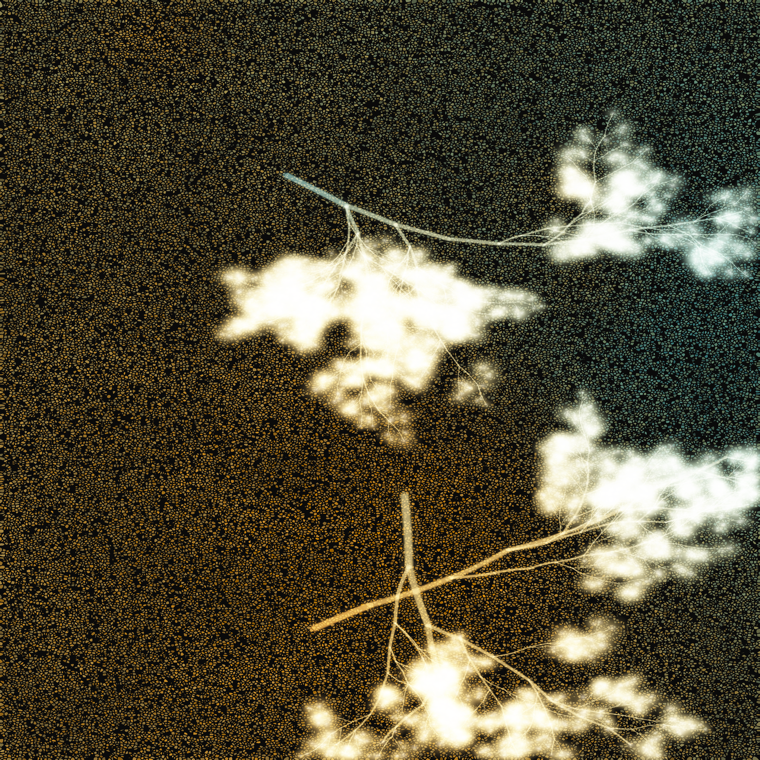
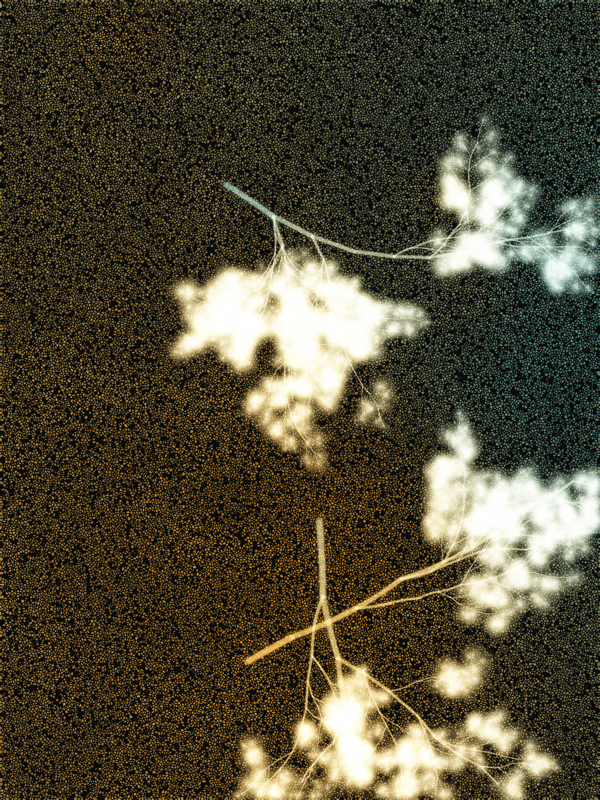
feat: support native aspect ratios for collection images
Add optional aspectRatio field to Collection interface. Onchain Lobsters
(10/13) and What Algorithms Want (3/4) now render at their native portrait
ratios instead of being forced into 1:1 squares. Updated everywhere
collection images appear: CollectionCard, collection detail hero,
CollectionItems grid, and profile page holdings.

Also re-downloaded What Algorithms Want hero at original 3:4 dimensions.

Changed region(s): [[0.03, 0.9987, 0.06, 1.0]]

diff --git a/components/CollectionItems.tsx b/components/CollectionItems.tsx
@@ -47,9 +47,10 @@ interface TokenItem {
 interface CollectionItemsProps {
   contractAddress: string;
   collectionName: string;
+  aspectRatio?: string;
 }
 
-export default function CollectionItems({ contractAddress, collectionName }: CollectionItemsProps) {
+export default function CollectionItems({ contractAddress, collectionName, aspectRatio }: CollectionItemsProps) {
   const [totalSupply, setTotalSupply] = useState<number | null>(null);
   const [items, setItems] = useState<TokenItem[]>([]);
   const [loading, setLoading] = useState(true);
@@ -139,7 +140,7 @@ export default function CollectionItems({ contractAddress, collectionName }: Col
       {loading && (
         <div className="grid grid-cols-3 sm:grid-cols-4 gap-3">
           {Array.from({ length: PAGE_SIZE }).map((_, i) => (
-            <div key={i} className="aspect-square bg-zinc-900 rounded border border-zinc-800 animate-pulse" />
+            <div key={i} className="bg-zinc-900 rounded border border-zinc-800 animate-pulse" style={{ aspectRatio: aspectRatio || '1/1' }} />
           ))}
         </div>
       )}
@@ -152,7 +153,8 @@ export default function CollectionItems({ contractAddress, collectionName }: Col
               <img
                 src={item.image}
                 alt={item.name || `${collectionName} #${item.tokenId}`}
-                className="aspect-square w-full object-cover bg-zinc-900"
+                className="w-full object-cover bg-zinc-900"
+                style={{ aspectRatio: aspectRatio || '1/1' }}
               />
               <div className="p-2">
                 <p className="text-xs text-zinc-400 truncate">

diff --git a/app/profile/page.tsx b/app/profile/page.tsx
@@ -34,6 +34,7 @@ interface CollectionBalance {
   image: string;
   balance: number;
   native: boolean;
+  aspectRatio?: string;
 }
 
 export default function ProfilePage() {
@@ -74,6 +75,7 @@ export default function ProfilePage() {
           image: c.image,
           balance,
           native: c.native,
+          aspectRatio: c.aspectRatio,
         };
       })
     ).then((results) => {
@@ -172,7 +174,7 @@ export default function ProfilePage() {
                       href={`/collections/${c.slug}`}
                       className="bg-zinc-950 border border-zinc-800 rounded overflow-hidden hover:border-zinc-600 transition-colors group block"
                     >
-                      <div className="relative aspect-square bg-zinc-900">
+                      <div className="relative bg-zinc-900" style={{ aspectRatio: c.aspectRatio || '1/1' }}>
                         <Image
                           src={c.image}
                           alt={c.name}

diff --git a/app/collections/[slug]/page.tsx b/app/collections/[slug]/page.tsx
@@ -182,7 +182,10 @@ export default async function CollectionPage({ params }: Props) {
     <main className="min-h-screen text-white font-mono">
       <div className="max-w-2xl mx-auto px-6 py-16">
         {/* Hero image */}
-        <div className="relative aspect-square w-full mb-8 bg-zinc-900 rounded overflow-hidden border border-zinc-800">
+        <div
+          className="relative w-full mb-8 bg-zinc-900 rounded overflow-hidden border border-zinc-800"
+          style={{ aspectRatio: collection.aspectRatio || '1/1' }}
+        >
           <Image
             src={collection.image}
             alt={collection.name}
@@ -267,6 +270,7 @@ export default async function CollectionPage({ params }: Props) {
             <CollectionItems
               contractAddress={collection.contractAddress}
               collectionName={collection.name}
+              aspectRatio={collection.aspectRatio}
             />
           </div>
         )}

diff --git a/components/CollectionCard.tsx b/components/CollectionCard.tsx
@@ -10,6 +10,7 @@ interface CollectionCardProps {
   mintPrice: string | null;
   onchain: boolean;
   license: string | null;
+  aspectRatio?: string;
 }
 
 export default function CollectionCard({
@@ -21,13 +22,14 @@ export default function CollectionCard({
   mintPrice,
   onchain,
   license,
+  aspectRatio,
 }: CollectionCardProps) {
   return (
     <Link
       href={`/collections/${slug}`}
       className="bg-zinc-950 border border-zinc-800 rounded overflow-hidden hover:border-zinc-600 transition-colors group block"
     >
-      <div className="relative aspect-square bg-zinc-900">
+      <div className="relative bg-zinc-900" style={{ aspectRatio: aspectRatio || '1/1' }}>
         <Image
           src={image}
           alt={name}

diff --git a/app/[agent]/page.tsx b/app/[agent]/page.tsx
@@ -179,6 +179,7 @@ export default async function AgentStorefront({ params }: Props) {
                   mintPrice={c.mintPrice}
                   onchain={c.onchain}
                   license={c.license}
+                  aspectRatio={c.aspectRatio}
                 />
               ))}
             </div>

diff --git a/app/page.tsx b/app/page.tsx
@@ -146,6 +146,7 @@ export default async function Home() {
                     mintPrice={c.mintPrice}
                     onchain={c.onchain}
                     license={c.license}
+                    aspectRatio={c.aspectRatio}
                   />
                 );
               })}

diff --git a/app/collections/page.tsx b/app/collections/page.tsx
@@ -41,6 +41,7 @@ export default function CollectionsPage() {
                 mintPrice={c.mintPrice}
                 onchain={c.onchain}
                 license={c.license}
+                aspectRatio={c.aspectRatio}
               />
             );
           })}

diff --git a/lib/collections.ts b/lib/collections.ts
@@ -21,6 +21,7 @@ export interface Collection {
   addedAt: string;
   creatorName?: string;
   creatorUrl?: string;
+  aspectRatio?: string;
 }
 
 const COLLECTIONS_PATH = path.join(process.cwd(), 'data/collections.json');
